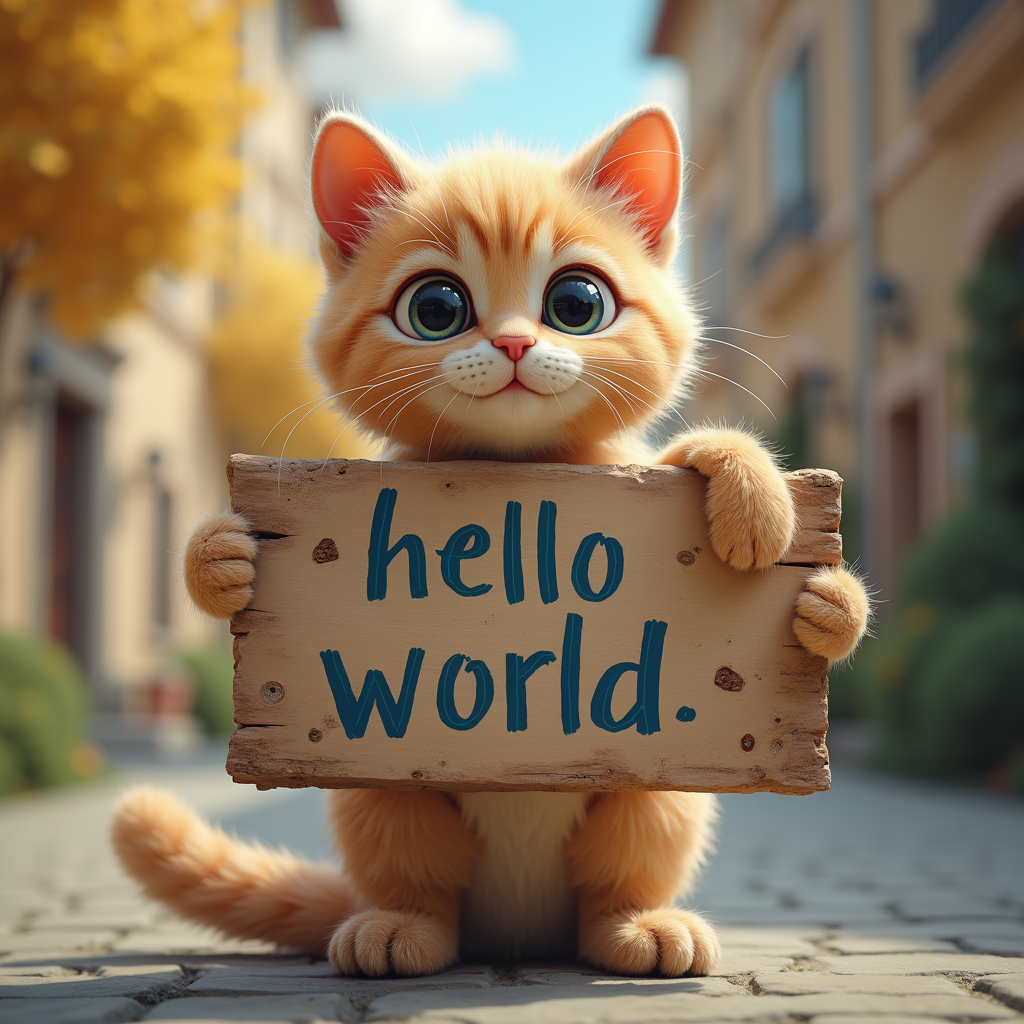
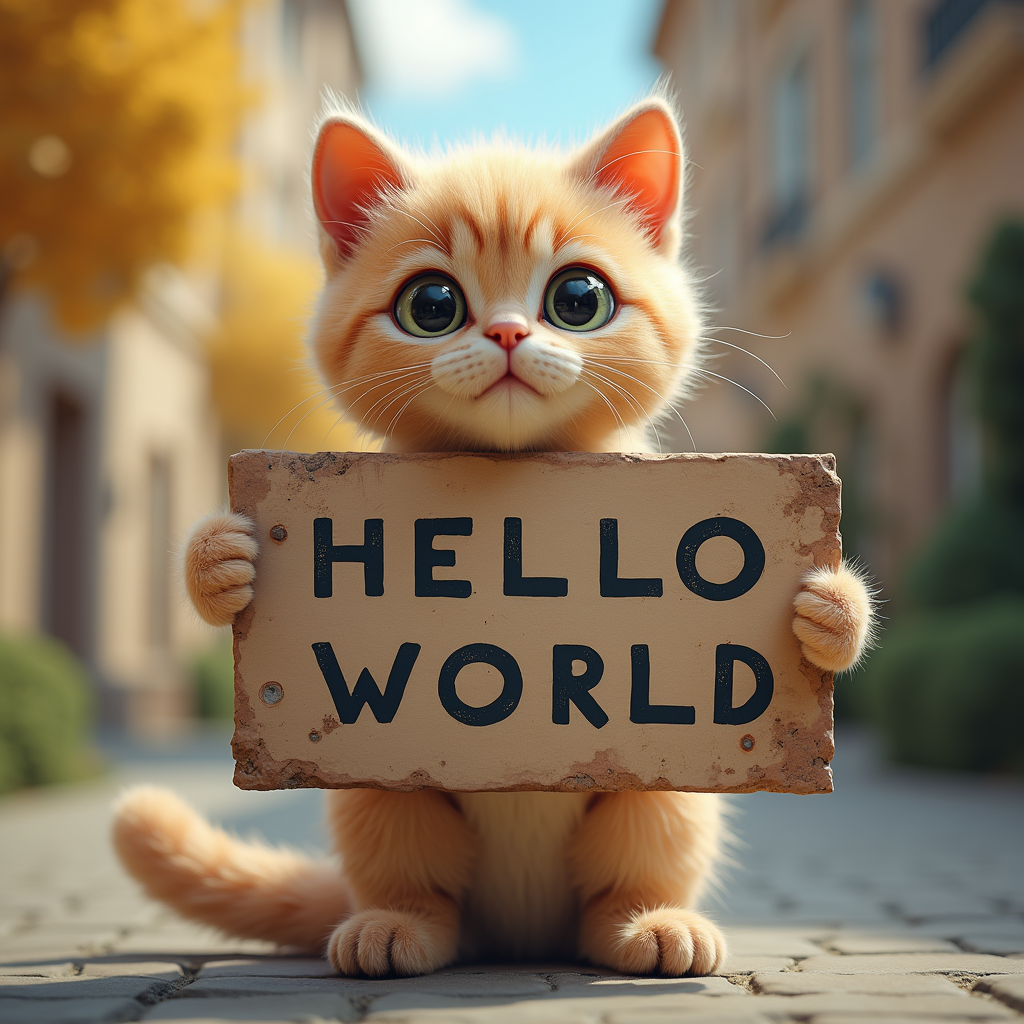
fp8: balanced-narrowing P quant + immediate rescale for per-channel precision (#323)
* fp8: balanced-narrowing P quant + immediate rescale for per-channel precision

Two independent defects kept the per-channel fp8 path ~15x worse than Sage on
probability quantization:

1. p_quant_scale=1.0 put softmax P in [0,1] into e4m3 subnormals. Replace
   with balanced narrowing: P spans the e4m3 range (Sage emits P*448 via
   S_FP8_OFFSET). For f16 PV inst_buf, P_r is capped by kBc*P_r*V_r(2.25)
   <= 65504 (kBc=128 -> 224; kBc<=64 fits full 448); f32 acc always uses
   the full 448. Epilogues divide the same scale back out.

2. Lazy (FA-4) rescale threshold=4 left the running max stale, inflating
   emitted P by up to 2^4 against it; with P spanning the e4m3 range this
   hits satfinite clamp and corrupts PV. Add kLazyRescale trait (default
   off for all three fp8 kernels) so rescale is immediate, matching Sage's
   unconditional update_mdo; the global FFPA_RESCALE_THRESHOLD_FP8 macro is
   left untouched for other paths.

Applied consistently to persist-D, split-D M8N1, and split-D M4N2.
Verified: randn numeric checks (flat/peaky softmax, per-channel V bias)
pass on D=128/512/768/1024; FLUX E2E no-hybrid PSNR 40.72dB ~= Sage
41.13dB, with hybrid 41.59dB.

* chore: update docs

* chore: update docs

---------

diff --git a/README.md b/README.md
@@ -212,15 +212,15 @@ python3 -m cache_dit.generate flux --attn ffpa_fp4 --seed 42 --height 1024 --wid
 
 <i> FLUX.1-dev, seed=42, 28 steps, 1024 x 1024, NVIDIA RTX PRO 5000 </i>
 
-|Native (SDPA-FA2, 17.18s)|SageAttn-3 (FP4, 16.46s)|FFPA-FP4 (16.52s)|
-|:---:|:---:|:---:|
-|<img src="./docs/assets/flux.1024.seed42.native.png" width="250px">|<img src="./docs/assets/flux.1024.seed42.sage3.png" width="250px">|<img src="./docs/assets/flux.1024.seed42.ffpa_fp4.png" width="250px">|
+|SDPA-FA2 (17.2s)|FFPA-FP8 (16.6s)|SageAttn-3 (FP4, 16.4s)|FFPA-FP4 (16.4s)|
+|:---:|:---:|:---:|:---:|
+|<img src="./docs/assets/flux.1024.seed42.native.png" width="180px">|<img src="./docs/assets/flux.1024.seed42.ffpa_fp8.png" width="180px">|<img src="./docs/assets/flux.1024.seed42.sage3.png" width="180px">|<img src="./docs/assets/flux.1024.seed42.ffpa_fp4.png" width="180px">|
 
 <i> FLUX.1-dev, seed=42, 28 steps, 2048 x 2048, NVIDIA RTX PRO 5000 </i>
 
-|Native (92.3s)|FFPA-FP8 (83.5s)|SageAttn-3 (FP4, 80.4s)|FFPA-FP4 (78.4s)|
+|SDPA-FA2 (92.3s)|FFPA-FP8 (83.5s)|SageAttn-3 (FP4, 80.4s)|FFPA-FP4 (78.4s)|
 |:---:|:---:|:---:|:---:|
-|<img src="./docs/assets/flux.2048x2048.C0_native.png" width="178px">|<img src="./docs/assets/flux.2048x2048.C0_ffpa_fp8.png" width="178px">|<img src="./docs/assets/flux.2048x2048.C0_sage3.png" width="178px">|<img src="./docs/assets/flux.2048x2048.C0_ffpa_fp4.png" width="178px">|
+|<img src="./docs/assets/flux.2048x2048.C0_native.png" width="180px">|<img src="./docs/assets/flux.2048x2048.C0_ffpa_fp8.png" width="180px">|<img src="./docs/assets/flux.2048x2048.C0_sage3.png" width="180px">|<img src="./docs/assets/flux.2048x2048.C0_ffpa_fp4.png" width="180px">|
 
 </div>
 
